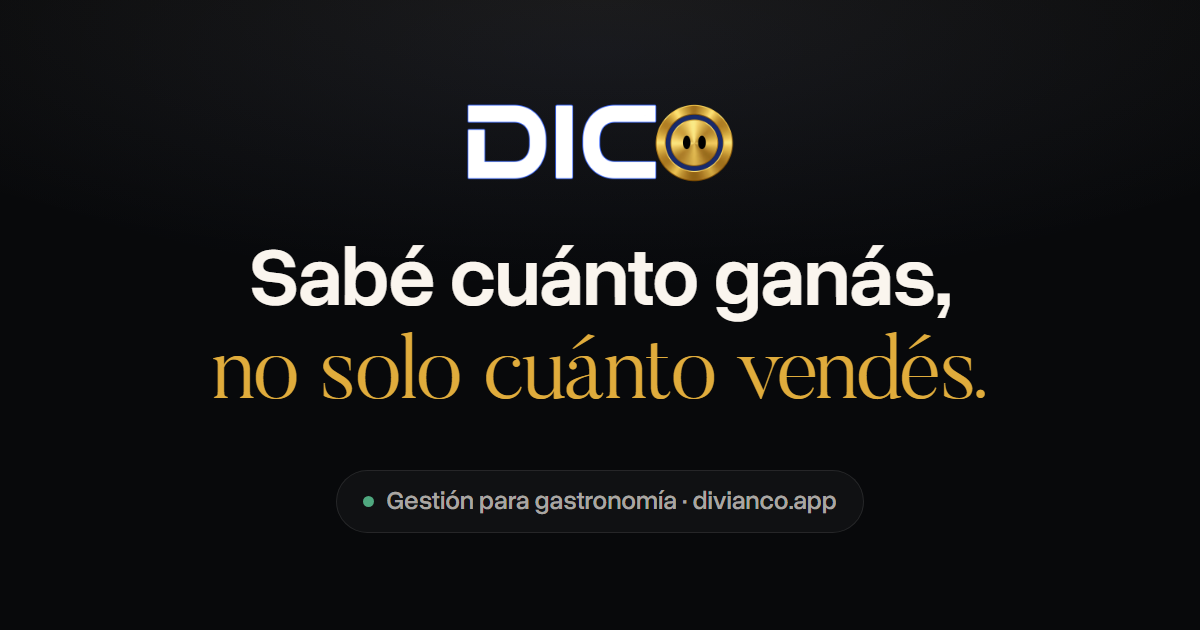
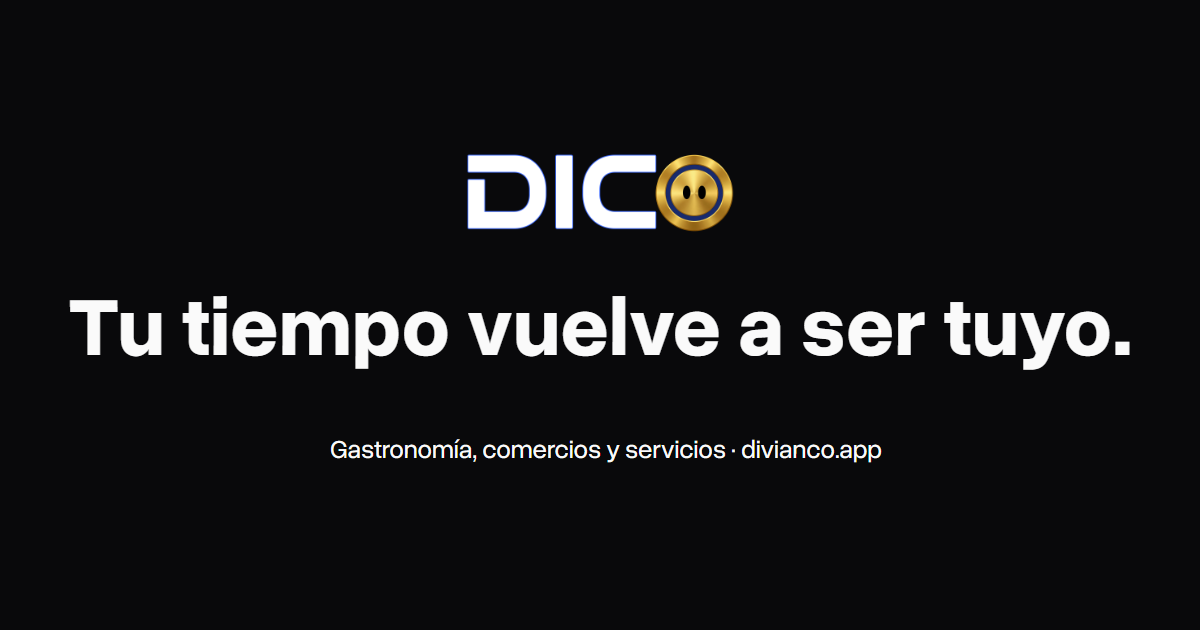
feat(landing): preparar HTML indexable y metadatos de produccion

diff --git a/src/test/seoPlataforma.test.jsx b/src/test/seoPlataforma.test.jsx
@@ -1,0 +1,49 @@
+// @vitest-environment node
+import { describe, expect, it, vi } from 'vitest';
+import { readFileSync } from 'node:fs';
+import { crearHtmlPlataforma, plataformaSeoPlugin } from '../../scripts/seo-platform.mjs';
+import { SEO_PLATAFORMA } from '../lib/seoPlataforma';
+import { supabase as datosProhibidos } from '../seo/sinDatosVisitante';
+
+const base = `<!doctype html><html lang="es"><head><title>Dico</title><meta name="description" content="Base"><meta property="og:title" content="Base"><meta property="og:description" content="Base"></head><body><script>/* tema por host */</script><div id="root"><div>Abriendo la tienda</div><style>/* loader */</style></div><script type="module" src="/assets/app.js"></script></body></html>`;
+const contenido = '<main><h1>Tu tiempo vuelve a ser tuyo.</h1><h2>Tu rubro, tu forma de trabajar.</h2><a href="/registro">Registrá tu negocio</a></main>';
+
+describe('SEO de la plataforma sin mezclar tenants', () => {
+  it('impide consultas a datos durante el prerender', () => {
+    expect(() => datosProhibidos.functions).toThrow('no puede consultar datos');
+  });
+  it('entrega texto real, canonical, datos validos y el mismo arranque interactivo', () => {
+    const html = crearHtmlPlataforma(base, contenido);
+    expect(html).toContain(contenido);
+    expect(html).not.toContain('Abriendo la tienda');
+    expect(html).toContain('<script>/* tema por host */</script>');
+    expect(html).toContain('<script type="module" src="/assets/app.js"></script>');
+    expect(html).toContain(`<link rel="canonical" href="${SEO_PLATAFORMA.url}">`);
+    expect(html).toContain('index,follow,max-image-preview:large');
+    expect(html).toContain('name="twitter:card" content="summary_large_image"');
+    const datos = JSON.parse(html.match(/<script type="application\/ld\+json">(.*?)<\/script>/s)[1]);
+    expect(datos['@graph'].map(nodo => nodo['@type'])).toEqual(['Organization', 'WebSite', 'SoftwareApplication']);
+    expect(JSON.stringify(datos)).not.toMatch(/Restaurant|aggregateRating|reviewCount/);
+  });
+  it('solo enruta el dominio principal al HTML prerenderizado, sin discriminar bots', () => {
+    const config = JSON.parse(readFileSync(new URL('../../vercel.json', import.meta.url)));
+    const regla = config.rewrites.find(r => r.destination === '/plataforma.html');
+    expect(regla.source).toBe('/');
+    expect(regla.has).toEqual([{ type: 'host', value: 'divianco.app' }]);
+    expect(config.rewrites.at(-1).destination).toBe('/index.html');
+    expect(JSON.stringify(regla)).not.toMatch(/user-agent|Googlebot/);
+  });
+  it('no genera la landing para el fixture de otro cliente', async () => {
+    const emitFile = vi.fn();
+    await plataformaSeoPlugin({ client: 'dico-qa-lite', buildId: 'abc12345' }).generateBundle.call({ emitFile }, {}, {});
+    expect(emitFile).not.toHaveBeenCalled();
+  });
+  it('permite descubrir la home pero no anuncia formularios como paginas indexables', () => {
+    const robots = readFileSync(new URL('../../public/robots.txt', import.meta.url), 'utf8');
+    const sitemap = readFileSync(new URL('../../public/sitemap.xml', import.meta.url), 'utf8');
+    expect(robots).toContain('Allow: /');
+    expect(robots).toContain('Sitemap: https://divianco.app/sitemap.xml');
+    expect(sitemap).toContain('<loc>https://divianco.app/</loc>');
+    expect(sitemap).not.toMatch(/registro|consola|entrar/);
+  });
+});

diff --git a/api/og.js b/api/og.js
@@ -14,9 +14,11 @@
 // key, y ante cualquier falla una respuesta generica de Dico — una vista
 // previa de mas vale mas que un 500.
 
+import { SEO_PLATAFORMA } from '../src/lib/seoPlataforma.js';
+
 const PLATFORM_ROOTS = ['divianco.app'];
 // Version de public/brand/og/dico.png (la genera scripts/generar-og-landing.mjs).
-const OG_VERSION = 1;
+const OG_VERSION = 2;
 
 function slugFromHost(host) {
   const h = String(host || '').toLowerCase().replace(/:\d+$/, '');
@@ -43,9 +45,8 @@ export default async function handler(req, res) {
   // Sin tenant (raiz): la marca de la plataforma.
   // Igual que el titulo y la descripcion de la landing (PlatformLanding.jsx):
   // nada que el producto no haga hoy.
-  let title = 'Dico — Todo tu negocio, en un solo lugar';
-  let description = 'Ventas, costos, sueldos, stock, caja, pedidos y el resultado de cada día de tu '
-    + 'gastronomía, comercio o servicio. Empezá con un diagnóstico, sin email.';
+  let title = SEO_PLATAFORMA.titulo;
+  let description = SEO_PLATAFORMA.descripcion;
   // La imagen de la raiz la genera scripts/generar-og-landing.mjs. Medidas
   // fijas: con width/height declarados WhatsApp la muestra grande al primer
   // envio, sin esperar a bajarla para saber el tamano.
@@ -55,7 +56,7 @@ export default async function handler(req, res) {
   let image = slug ? null : `https://divianco.app/brand/og/dico.png?v=${OG_VERSION}`;
   const imageMeta = slug ? '' : '<meta property="og:image:width" content="1200">\n'
     + '<meta property="og:image:height" content="630">\n'
-    + '<meta property="og:image:alt" content="Dico: sabé cuánto ganás, no solo cuánto vendés">';
+    + '<meta property="og:image:alt" content="Dico: tu tiempo vuelve a ser tuyo">';
   let color = '#0f0e0d';
 
   if (slug) {
@@ -105,7 +106,7 @@ ${imageMeta}
 <meta name="twitter:title" content="${esc(title)}">
 <meta name="twitter:description" content="${esc(description)}">
 ${image ? `<meta name="twitter:image" content="${esc(image)}">` : ''}
-${slug ? '' : '<meta name="twitter:image:alt" content="Dico: sabé cuánto ganás, no solo cuánto vendés">'}
+${slug ? '' : '<meta name="twitter:image:alt" content="Dico: tu tiempo vuelve a ser tuyo">'}
 </head>
 <body>
 <h1>${esc(title)}</h1>

diff --git a/src/test/landingHero.test.jsx b/src/test/landingHero.test.jsx
@@ -100,18 +100,18 @@ describe('parallax fotográfico', () => {
     </div>,
   );
 
-  it('sincroniza cuatro planos al scroll y al resize sin un loop permanente', () => {
+  it('sincroniza los planos y la luz al scroll y al resize sin un loop permanente', () => {
     const { container } = montarEscena();
     const raiz = container.firstChild;
     vi.spyOn(raiz, 'getBoundingClientRect').mockReturnValue({ top: -400 });
-    expect(animar).toHaveBeenCalledTimes(4);
+    expect(animar).toHaveBeenCalledTimes(5);
     expect(animar.mock.calls.map(([frames]) => frames[1].transform)).toEqual([
       'translate3d(0, 990px, 0)', 'translate3d(0, 2460px, 0)',
-      'translate3d(0, 1950px, 0)', 'translate3d(0, 360px, 0)',
+      'translate3d(0, 1950px, 0)', 'translate3d(0, 1950px, 0)', 'translate3d(0, 360px, 0)',
     ]);
     act(() => visibilidad([{ isIntersecting: true }]));
     act(() => cuadro());
-    expect(animaciones.map((animacion) => animacion.currentTime)).toEqual([400, 400, 400, 400]);
+    expect(animaciones.map((animacion) => animacion.currentTime)).toEqual([400, 400, 400, 400, 400]);
     expect(requestAnimationFrame).toHaveBeenCalledOnce();
     fireEvent.resize(window);
     expect(requestAnimationFrame).toHaveBeenCalledTimes(2);
@@ -136,7 +136,7 @@ describe('parallax fotográfico', () => {
     const cambiar = preferencia.addEventListener.mock.calls[0][1];
     preferencia.matches = false;
     act(() => cambiar());
-    expect(animar).toHaveBeenCalledTimes(4);
+    expect(animar).toHaveBeenCalledTimes(5);
     preferencia.matches = true;
     act(() => cambiar());
     animaciones.forEach((animacion) => expect(animacion.cancel).toHaveBeenCalledOnce());

diff --git a/src/lib/seoPlataforma.js b/src/lib/seoPlataforma.js
@@ -1,0 +1,17 @@
+// Identidad publica de Dico; solo se aplica al dominio de la plataforma.
+export const SEO_PLATAFORMA = {
+  titulo: 'Dico | Gestión para gastronomía, comercios y servicios',
+  descripcion: 'Gestioná pedidos, stock, caja, equipo y resultados en Dico. Para gastronomía, comercios y servicios. Empezá con un diagnóstico breve, sin email.',
+  url: 'https://divianco.app/',
+  imagen: 'https://divianco.app/brand/og/dico.png?v=2',
+  imagenAlt: 'Dico: tu tiempo vuelve a ser tuyo. Gestión para gastronomía, comercios y servicios.',
+};
+
+export const DATOS_ESTRUCTURADOS_PLATAFORMA = {
+  '@context': 'https://schema.org',
+  '@graph': [
+    { '@type': 'Organization', '@id': 'https://divianco.app/#organizacion', name: 'Grupo Divianco', url: SEO_PLATAFORMA.url, sameAs: ['https://www.instagram.com/grupodivianco/'], email: 'hola@divianco.app' },
+    { '@type': 'WebSite', '@id': 'https://divianco.app/#sitio', name: 'Dico', url: SEO_PLATAFORMA.url, inLanguage: 'es-AR', publisher: { '@id': 'https://divianco.app/#organizacion' } },
+    { '@type': 'SoftwareApplication', '@id': 'https://divianco.app/#dico', name: 'Dico', url: SEO_PLATAFORMA.url, description: SEO_PLATAFORMA.descripcion, applicationCategory: 'BusinessApplication', operatingSystem: 'Web', inLanguage: 'es-AR', image: SEO_PLATAFORMA.imagen, publisher: { '@id': 'https://divianco.app/#organizacion' }, sameAs: ['https://www.instagram.com/dico.arg/'] },
+  ],
+};

diff --git a/src/pages/PlatformLanding.jsx b/src/pages/PlatformLanding.jsx
@@ -48,6 +48,7 @@
 
 import { useEffect, useRef, useState } from 'react';
 import { cargarAnalitica, marcarEvento } from '../lib/analiticaPlataforma';
+import { SEO_PLATAFORMA } from '../lib/seoPlataforma';
 import Diagnostico from '../components/landing/Diagnostico';
 import EscenaHero from '../components/landing/EscenaHero';
 import RubrosNegocio from '../components/landing/RubrosNegocio';
@@ -61,10 +62,8 @@ import '../styles/plataforma-claro.css';
 import '../styles/platform-landing.css';
 import '../styles/diagnostico.css';
 
-const TITULO = 'Dico — Todo tu negocio, en un solo lugar';
-// <= 160 caracteres, lo que muestran los buscadores. Igual en api/og.js.
-const DESCRIPCION = 'Ventas, costos, sueldos, stock, caja, pedidos y el resultado de cada día '
-  + 'de tu gastronomía, comercio o servicio. Empezá con un diagnóstico, sin email.';
+const TITULO = SEO_PLATAFORMA.titulo;
+const DESCRIPCION = SEO_PLATAFORMA.descripcion;
 
 /** Escribe el titulo y los meta de la raiz. El index.html del build lleva los
  *  del cliente que se horneo (clients/edificio), asi que sin esto la pestania de

diff --git a/vite.config.js b/vite.config.js
@@ -5,6 +5,7 @@ import path from 'path'
 import fs from 'fs'
 import { pathToFileURL } from 'url'
 import { resolveBuildIdentity } from './scripts/build-identity.mjs'
+import { plataformaSeoPlugin } from './scripts/seo-platform.mjs'
 
 // El build de produccion es clients/edificio, y es el default: Vercel no manda
 // CLIENT. El otro que queda es clients/dico-qa-lite, el fixture local.
@@ -176,7 +177,7 @@ async function sentryPlugins() {
 }
 
 export default defineConfig(async () => ({
-  plugins: [businessHtmlPlugin(), versionJsonPlugin(), tailwindcss(), react(), ...(await sentryPlugins())],
+  plugins: [businessHtmlPlugin(), versionJsonPlugin(), plataformaSeoPlugin({ client: CLIENT, buildId: BUILD_ID }), tailwindcss(), react(), ...(await sentryPlugins())],
   resolve: {
     alias: {
       '@business': path.resolve(__dirname, `clients/${CLIENT}/business.js`),

diff --git a/src/seo/renderLanding.jsx b/src/seo/renderLanding.jsx
@@ -1,0 +1,9 @@
+import { createElement } from 'react';
+import { renderToStaticMarkup } from 'react-dom/server';
+import PlatformLanding from '../pages/PlatformLanding';
+
+// Se ejecuta al compilar, sin efectos ni consultas de datos del visitante.
+// El navegador monta la misma landing con sus interacciones habituales.
+export function renderLanding() {
+  return renderToStaticMarkup(createElement('main', { id: 'main-content' }, createElement(PlatformLanding)));
+}

diff --git a/src/seo/sinDatosVisitante.js b/src/seo/sinDatosVisitante.js
@@ -1,0 +1,5 @@
+// Solo el render de compilacion recibe este modulo en lugar del cliente real.
+// Cualquier intento de consultar datos durante el prerender falla cerrado.
+export const supabase = new Proxy({}, {
+  get() { throw new Error('El prerender de la landing no puede consultar datos de visitantes'); },
+});

diff --git a/docs/plataforma/SEO-PUBLICACION.md b/docs/plataforma/SEO-PUBLICACION.md
@@ -1,0 +1,62 @@
+# Publicacion y descubrimiento de la landing
+
+29/oct/2026. Ricky autorizo publicar la landing en divianco.app. La skill
+marketing:seo-audit no esta instalada; autorizo usar las fuentes oficiales
+listadas abajo sin instalar dependencias.
+
+## Que se configura
+
+- `scripts/seo-platform.mjs` genera `dist/plataforma.html` a partir de los
+  componentes reales de la landing, con React al compilar. No hay un texto
+  distinto para bots: humanos y robots reciben el mismo HTML e interacciones.
+- El render de compilacion sustituye el cliente de datos por una barrera que
+  rechaza consultas: no necesita credenciales ni lee datos de visitantes.
+- Solo la raiz de `divianco.app` se reescribe a ese archivo. Los subdominios de
+  negocios conservan `index.html` y su resolucion de tenant en runtime. El
+  fixture QA no genera la landing prerenderizada.
+- Titulo y descripcion descriptivos, canonical a la raiz, Open Graph y Twitter
+  con imagen1200x630, idioma es-AR y JSON-LD de Organization/WebSite/
+  SoftwareApplication. Sin resenas ni calificaciones inventadas.
+- `www` redirige al dominio principal; `/landing` en el dominio principal
+  redirige a `/`. Las previews mantienen su ruta de revision.
+- Sitemap solo con la home indexable. Paneles/formularios usan X-Robots-Tag
+  noindex; robots permite recursos publicos y buscadores. No se cambia la
+  seguridad de las rutas privadas ni se pretende reemplazarla con robots.
+- `llms.txt` actualizado con precios reales publicados y funciones en
+  desarrollo; es ayuda complementaria, no un requisito ni garantia de SEO.
+- `public/indexnow-key.txt`: clave publica de verificacion de IndexNow para
+  notificar la home luego de comprobar el despliegue. No es una credencial de
+  base ni permite administrar el sitio.
+
+## Verificacion antes de publicar
+
+- Build genera HTML con titular, rubros y planes, canonical y JSON-LD valido.
+- El HTML generico de tenants no incluye canonical ni contenido de plataforma.
+- Prueba con JavaScript deshabilitado y prueba interactiva en el host raiz;
+  diagnostico y responsive conservados. No se guardan leads/pedidos durante QA.
+- Tests de SEO validan aislamiento por host, datos estructurados, bootstrap,
+  sitemap y fixture; suite completa y CI deben pasar antes del merge.
+- Tras publicar: verificar `/`, `/robots.txt`, `/sitemap.xml`, imagen OG y
+  `/version.json`, y leer el mismo HTML como Googlebot/OAI-SearchBot. Comprobar
+  tambien un catalogo existente con GET, sin escribir datos.
+
+## Despues de publicar
+
+Enviar solo https://divianco.app/ a IndexNow usando keyLocation del archivo
+publico. Una respuesta200/202 indica recepcion, no que ya este indexada.
+
+Google puede descubrir la home por sitemap y enlaces. Para solicitar rastreo
+manual y ver informes hace falta la propiedad verificada de Search Console;
+no se fabrican codigos de verificacion ni se promete posicion o fecha de
+aparicion. Revisar igualmente Bing Webmaster Tools si se dispone del acceso.
+
+## Fuentes oficiales
+
+- https://developers.google.com/search/docs/crawling-indexing/javascript/javascript-seo-basics
+- https://developers.google.com/search/docs/crawling-indexing/consolidate-duplicate-urls
+- https://developers.google.com/search/docs/appearance/ai-features
+- https://developers.google.com/search/docs/fundamentals/ai-optimization-guide
+- https://www.bing.com/webmasters/help/sitemaps-3b5cf6ed
+- https://developers.openai.com/api/docs/bots
+- https://www.indexnow.org/documentation
+- https://vite.dev/guide/ssr

diff --git a/docs/plataforma/LANDING.md b/docs/plataforma/LANDING.md
@@ -11,6 +11,18 @@
 
 ### Revision visual de Ricky
 
+**Publicacion y SEO en curso, 29/oct:** Ricky autoriza publicar la landing en
+la raiz divianco.app. Integra main (agenda/catalogo existentes se conservan).
+Excepcion autorizada: marketing:seo-audit no esta instalada; se usan docs
+oficiales Google/Bing/OpenAI/Vite, sin dependencias nuevas. Build genera
+plataforma.html desde los componentes reales, metadatos/canonical/OG/Twitter y
+JSON-LD Organization/WebSite/SoftwareApplication. Rewrite SOLO host raiz; mismo
+HTML para personas y bots, tenants mantienen index.html. Formularios y paneles
+noindex; sitemap solo home; robots permite buscadores, llms corrige precios y
+alcance. Clave publica IndexNow para avisar la home despues del despliegue.
+Pendiente terminar pruebas, fusionar PR52, verificar main/CI y dominio publico.
+
+
 **Separacion Clientes/Rubros, 29/oct:** ajuste pedido tras retirar el segmento
 de pedido: negro inferior de clientes48px (antes16) y barra marfil76px
 (antes88). Logos48px y apertura intactos. Rubros y demas segmentos sin cambios.
